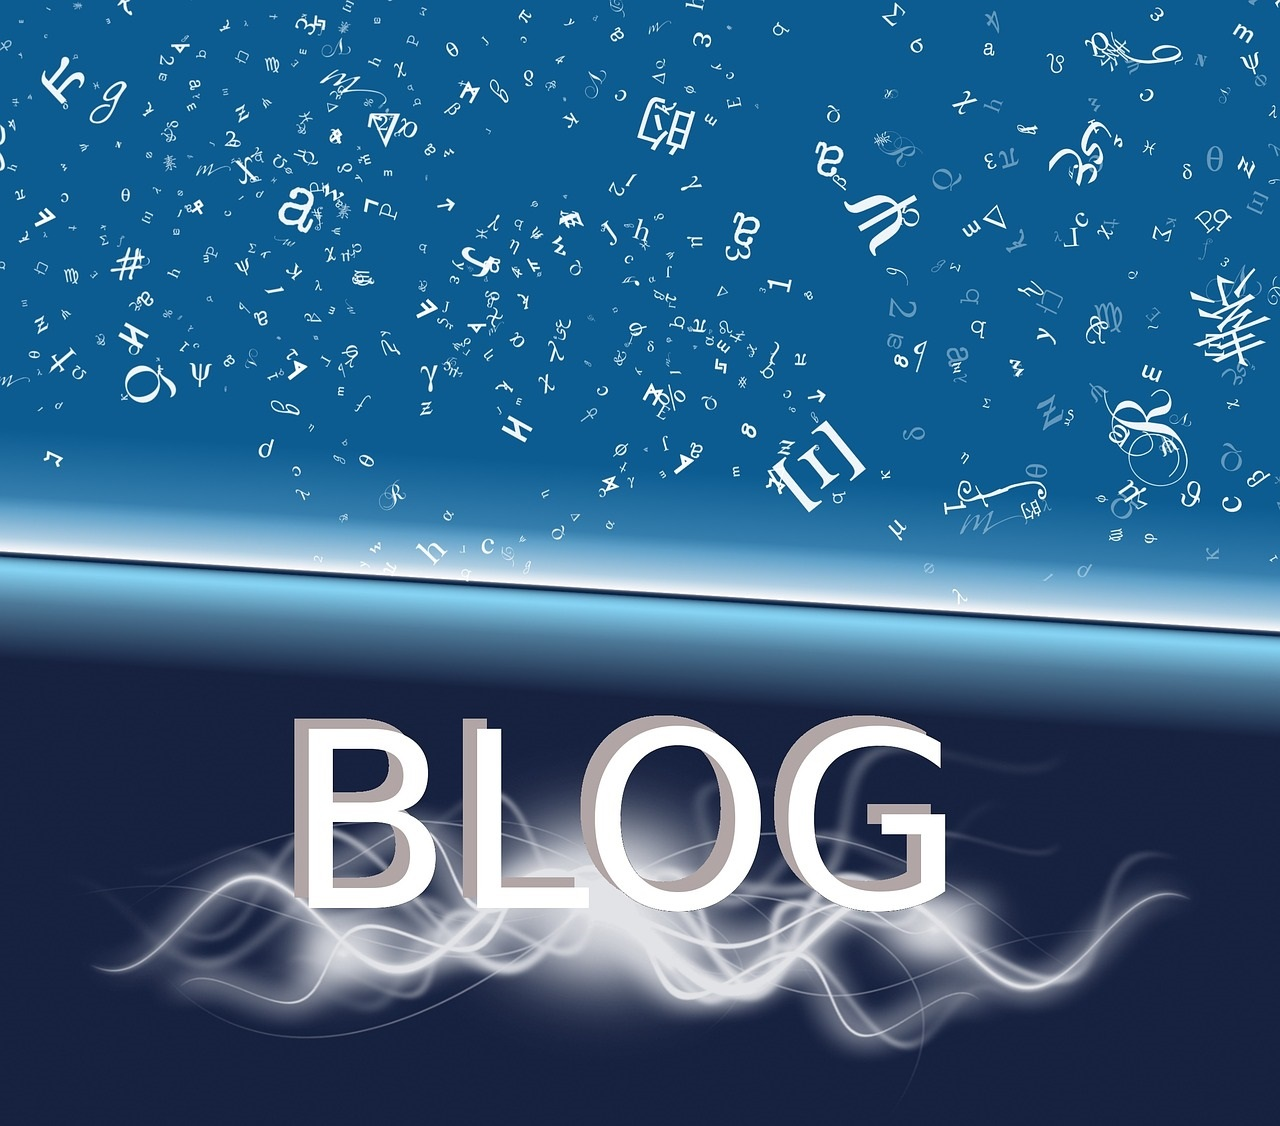
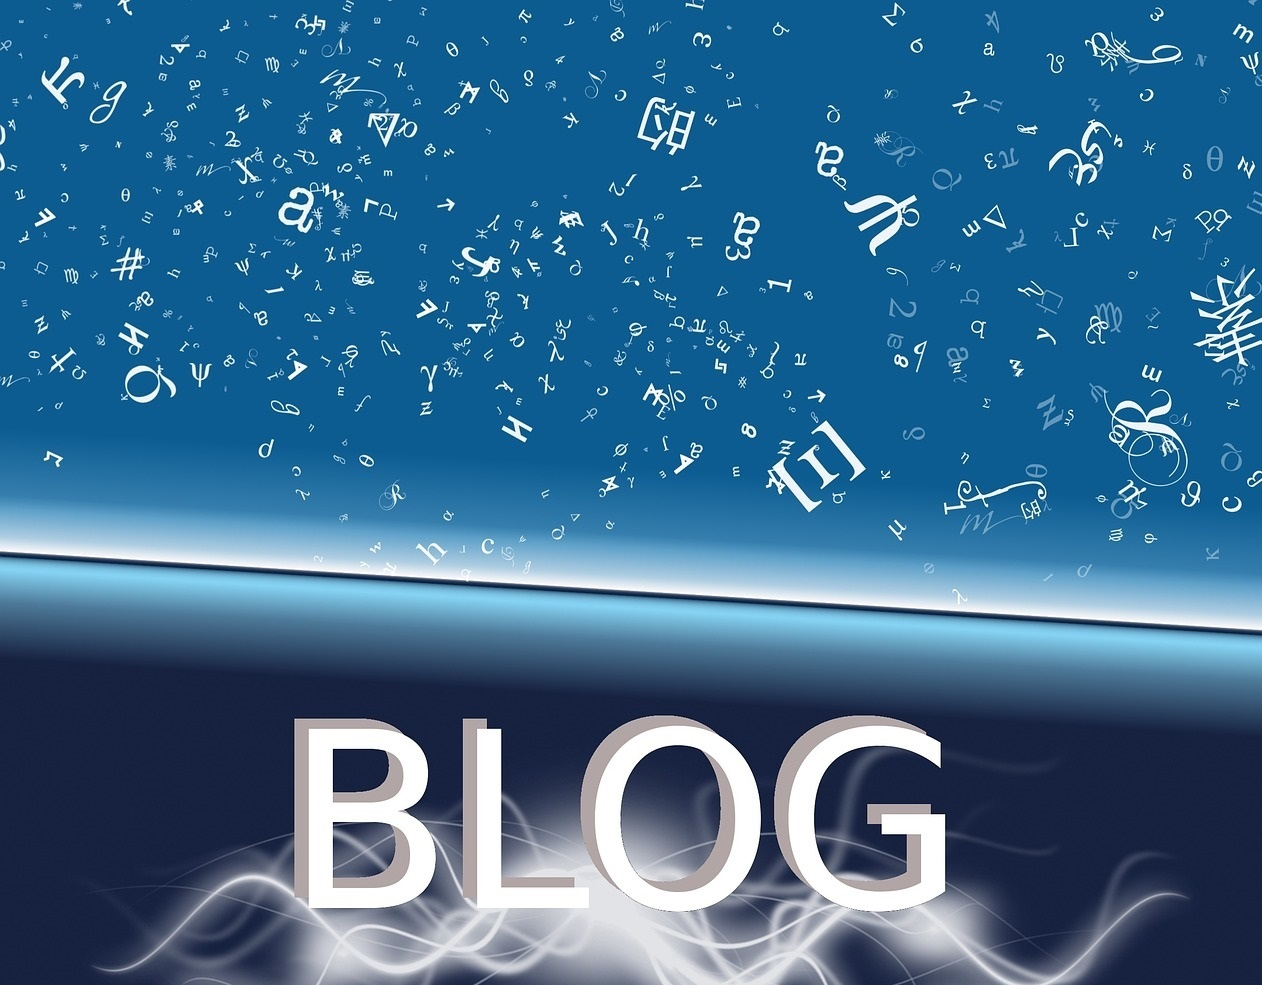
changes on bg image

diff --git a/src/Components/CSS/CommonStyle.css b/src/Components/CSS/CommonStyle.css
@@ -1,7 +1,7 @@
 /* home page css(App.js) */
 .btn_blog {
   position: absolute;
-  top: 150%;
+  top: 40%;
   left: 50%;
   transform: translate(-50%, -50%);
   padding: 17px 26px;
@@ -12,18 +12,26 @@
   cursor: pointer;
   font-size: 21px;
   font-weight: 600px;
+  z-index: 1;
 }
 
 .bgimg {
-  height: 91vh;
-  width: 194vh;
+  height: 100%;
+  width: 100%;
   display: block;
   margin: auto;
+  position: absolute;
+  top:0;
+  left:0;
+  object-fit: cover;
 }
 
 .main_div {
   position: relative;
-  max-height: 10vh;
+  max-height: 93vh;
+  width: 100vw;
+  height: 100vh;
+  overflow: hidden;
 }
 /* end */
 

diff --git a/src/App.js b/src/App.js
@@ -16,7 +16,7 @@ function App() {
       <HeaderMenu />
 
       <div className="main_div">
-        <img src="/blog.jpg" alt="Blog" className="bgimg" />
+        <img src="/blogg.jpg" alt="Blog" className="bgimg" />
         <br />
         <button className="btn_blog" onClick={blogPage}>
           Continue to Blogging
